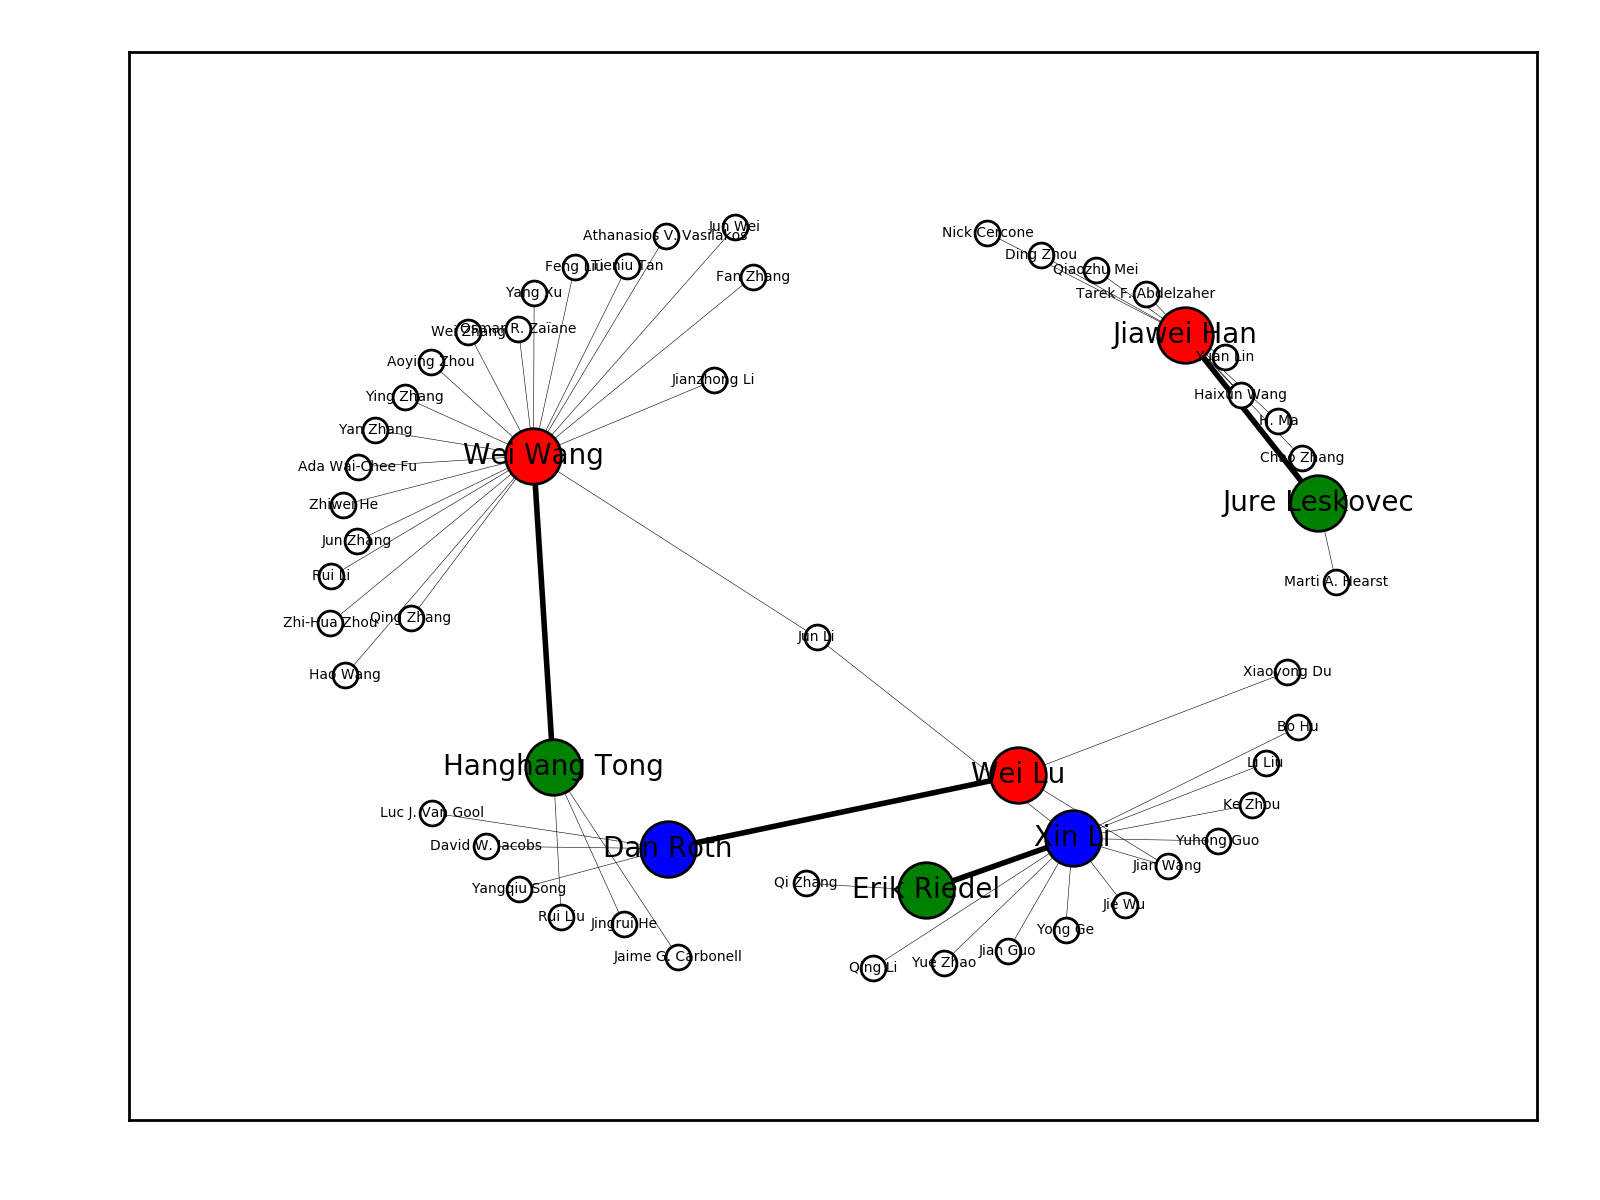
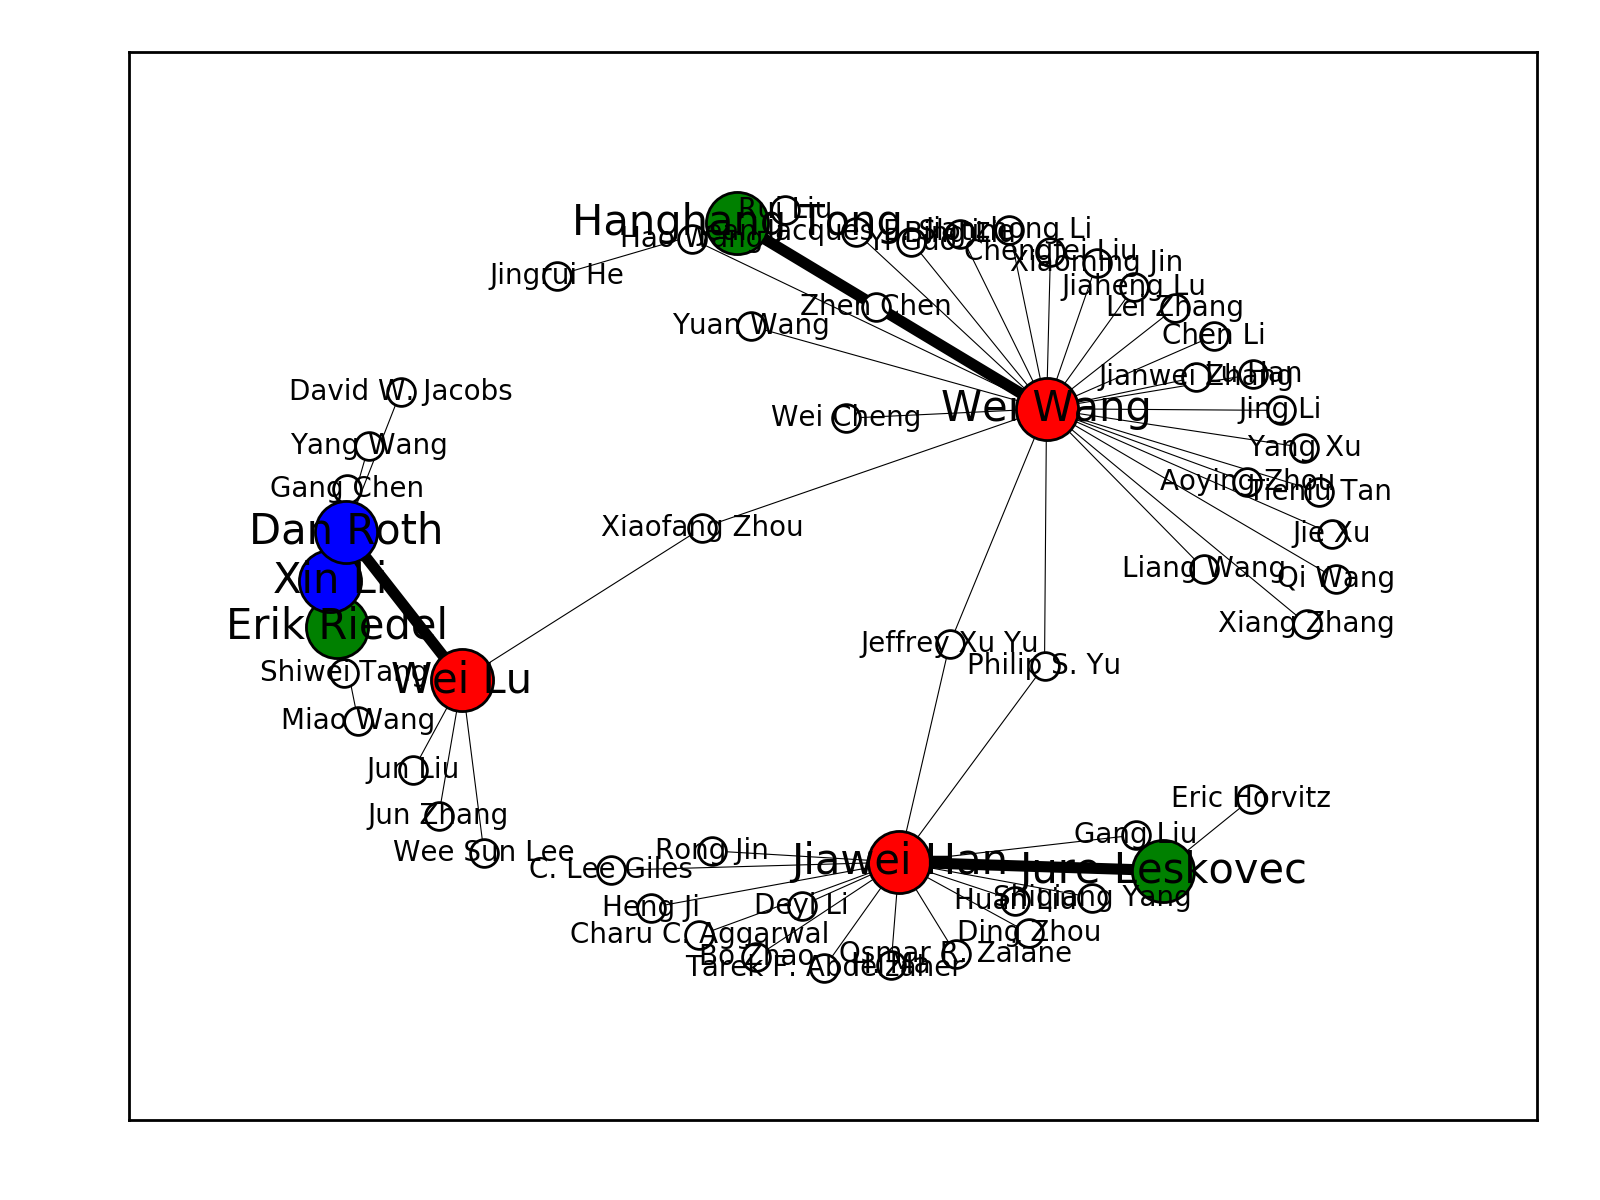
plot4

diff --git a/plot4.py b/plot4.py
@@ -17,16 +17,16 @@ def plot(nodes, edges, group, suffix):
 	G.add_edges_from(edges)
 	pos = nx.spring_layout(G)
 
-	nx.draw_networkx_nodes(G, pos, nodelist=[node for node in nodes if node not in group], node_color='w', node_size=80)
+	nx.draw_networkx_nodes(G, pos, nodelist=[node for node in nodes if node not in group], node_color='w', node_size=100)
 	for g_id, color in colors:
 		nx.draw_networkx_nodes(G, pos, nodelist=[node for node in nodes if node in group and group[node] == g_id],
-		                       node_color=color, node_size=400)
+		                       node_color=color, node_size=500)
 	nx.draw_networkx_edges(G, pos,
-	                       edgelist=[edge for edge in edges if edge[0] in graph.author_labels and edge[1] in graph.author_labels], width=2.0)
+	                       edgelist=[edge for edge in edges if edge[0] in graph.author_labels and edge[1] in graph.author_labels], width=4.0)
 	nx.draw_networkx_edges(G, pos,
-	                       edgelist=[edge for edge in edges if edge[0] not in graph.author_labels or edge[1] not in graph.author_labels], width=0.2)
-	nx.draw_networkx_labels(G, pos, labels={node: node for node in nodes if node in graph.author_labels}, font_size=10)
-	nx.draw_networkx_labels(G, pos, labels={node: node for node in nodes if node not in graph.author_labels}, font_size=5)
+	                       edgelist=[edge for edge in edges if edge[0] not in graph.author_labels or edge[1] not in graph.author_labels], width=0.4)
+	nx.draw_networkx_labels(G, pos, labels={node: node for node in nodes if node in graph.author_labels}, font_size=15)
+	nx.draw_networkx_labels(G, pos, labels={node: node for node in nodes if node not in graph.author_labels}, font_size=10)
 	plt.tight_layout()
 	axis = plt.gca()
 	axis.axes.get_xaxis().set_visible(False)
@@ -94,18 +94,25 @@ class Network(object):
 		return reduce(lambda x, y: x or y, [self.is_connected(n, n2, order - 1) for n in self.neighbors_baseline[n1]])
 
 	def baseline(self):
+		black_list = set(['Yizhou Sun', 'Jing Gao', 'Dong Xin', 'Wei Wang'])
 		nodes = set()
 		colored = self.colored()
 		for node, nbs in self.neighbors_rl.items():
+			if node in black_list:
+				continue
 			neighbors = nbs & colored
 			if node not in self.neighbors_baseline:
 				for pair in itertools.combinations(neighbors, 2):
+					if pair[0] in black_list or pair[1] in black_list:
+						continue
 					if self.author_labels[pair[0]] == self.author_labels[pair[1]]:
 						if not self.is_connected(pair[0], pair[1], 4):
 							nodes.add(pair[0])
 							nodes.add(pair[1])
 			else:
 				for neighbor in neighbors:
+					if neighbor in black_list:
+						continue
 					if self.author_labels[node] != self.author_labels[neighbor]:
 						nodes.add(node)
 						nodes.add(neighbor)
